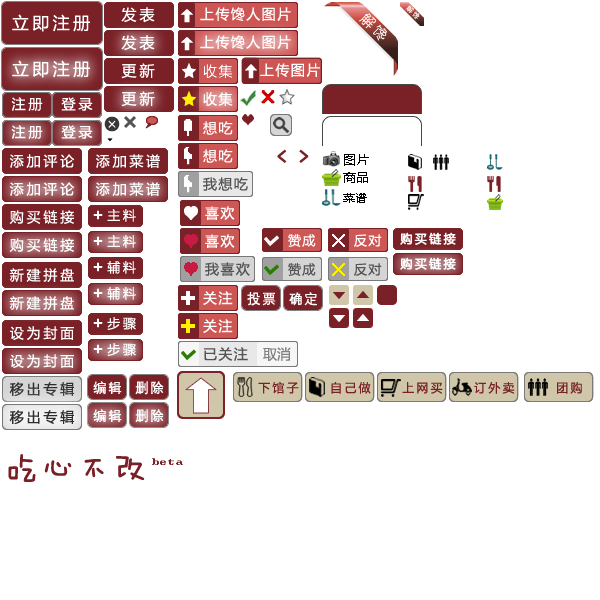
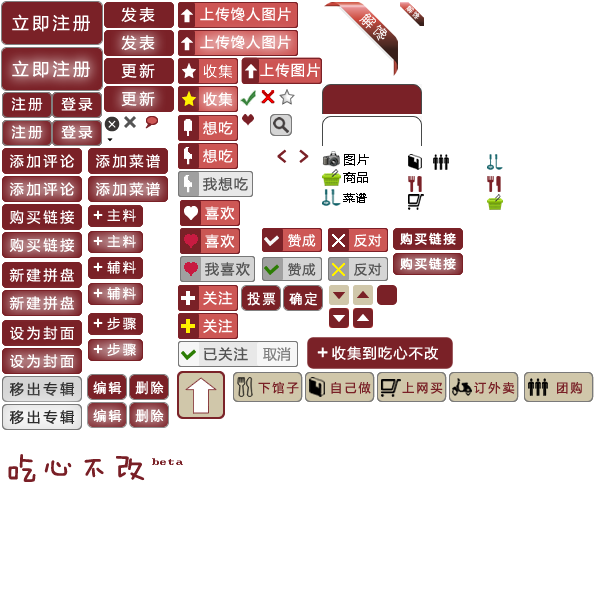
hot fix

Changed region(s): [[0.51, 0.54, 0.78, 0.63]]

diff --git a/app/assets/stylesheets/buttons.css.scss b/app/assets/stylesheets/buttons.css.scss
@@ -387,3 +387,9 @@ a.btn.btn_edit:hover{
     background-position: -284px -286px;
 }
 
+.btn.btn_shouji {
+    width: 140px;
+    height: 26px;
+    background-position: -310px -340px;
+}
+
